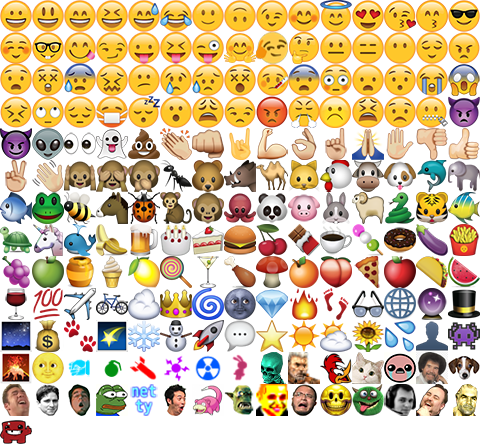
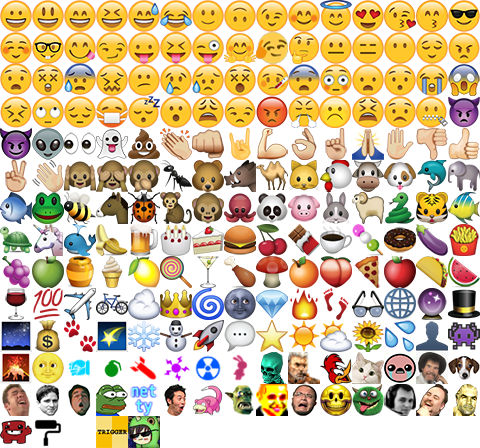
feat(smiles): added personal smiles

Changed region(s): [[0.1875, 0.9062, 0.3438, 1.0], [0.0625, 0.9375, 0.125, 1.0]]

diff --git a/frontend/src/app/configs/smiles.config.ts b/frontend/src/app/configs/smiles.config.ts
@@ -1194,6 +1194,25 @@ export class SMILES_CONFIG {
                 col: 1,
                 group: SmileGroups.PERSONAL,
             },
+            {
+                name: 'pakistan1',
+                row: 14,
+                col: 2,
+                group: SmileGroups.PERSONAL,
+            },
+            // TOOD Add row 14 col 3
+            {
+                name: 'mixanik1',
+                row: 14,
+                col: 4,
+                group: SmileGroups.PERSONAL,
+            },
+            {
+                name: 'skaix1',
+                row: 14,
+                col: 5,
+                group: SmileGroups.PERSONAL,
+            },
         ];
     }
 
